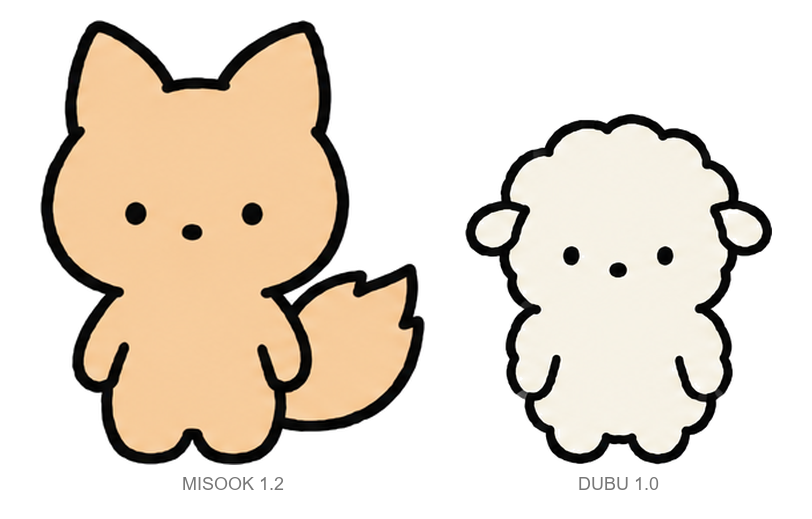
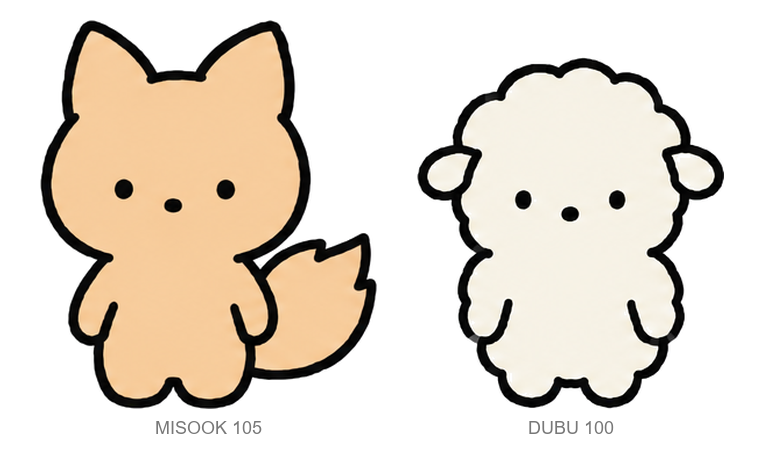
캐스트 크기 확정: 주인공 100 기준 아빠 110 · 엄마 105 · 남친 105 · 동생·친구 100

diff --git a/assets/samples/cast-sheets.html b/assets/samples/cast-sheets.html
@@ -24,7 +24,7 @@
 
   <h2>크기 라인업 (시트 FRONT 도를 잘라 합성, 생성 아님)</h2>
   <img src="../cast/lineup-all.png" alt="7인 크기 라인업">
-  <p class="cap">역할 기준 크기: 엄마·아빠 1.2 / 남친 1.1 / 주인공·친구 1.0 / 동생 0.8. 실제 동물 크기와 무관하며, 귀·뿔·털에 영향받지 않도록 <b>눈높이→발끝 거리</b>를 기준으로 맞춘다. <code>python scripts/lineup.py all --out …</code></p>
+  <p class="cap">역할 기준 크기 (주인공 100): 아빠 110 / 엄마 105 / 남친 105 / 동생·친구 100. 실제 동물 크기와 무관하며, 귀·뿔·털에 영향받지 않도록 <b>눈높이→발끝 거리</b>를 기준으로 맞춘다. <code>python scripts/lineup.py all --out …</code></p>
   <h2>동시 출연 참조 예시 — 두부 + 미숙</h2>
   <img src="../cast/lineup-example-dubu-misook.png" alt="두부 미숙 라인업" style="max-width:420px">
   <p class="cap">컷에 나오는 캐릭터만 골라 만든다: <code>python scripts/lineup.py dubu misook --out episodes/epNN/ref/lineup.png</code> → 컷 생성 시 <code>--ref</code>로 시트들과 함께 입력.</p>

diff --git a/assets/cast.html b/assets/cast.html
@@ -37,7 +37,7 @@
   <h1>확정 캐스트 7인</h1>
   <p class="sub">동물 20종 시트에서 고른 7종. 작품 안에는 MBTI를 드러내지 않고, 성격은 행동으로만 보여준다. 아래 컬러는 프롬프트 지정값이 아니라 생성 결과에서 실측한 값.</p>
 
-  <h2>라인업 — 현재 컬러 (엄마·아빠 1.2 / 남친 1.1 / 동생 0.8)</h2>
+  <h2>라인업 — 현재 컬러 (구 비율 — 확정은 cast-sheets.html)</h2>
   <img class="line" src="cast/lineup-current.png" alt="현재 컬러 라인업">
   <p class="cap">엄마 · 아빠 · 주인공 · 남동생 · 친구1 · 친구2 · 남친</p>
   <h2>라인업 — 제안 컬러 (오리 채도↑, 고슴도치 명도↓·단색화)</h2>

diff --git a/scripts/lineup.py b/scripts/lineup.py
@@ -10,13 +10,13 @@ import numpy as np
 from PIL import Image, ImageDraw, ImageFont
 
 CAST = {  # 이름: (시트, 상대 크기, 캡션)
-    "dubu":   ("assets/samples/dubu-sheet-high.png",   1.0, "DUBU 1.0"),
-    "misook": ("assets/samples/misook-sheet-high.png", 1.2, "MISOOK 1.2"),
-    "deoksu": ("assets/samples/deoksu-sheet-high.png", 1.2, "DEOKSU 1.2"),
-    "kong":   ("assets/samples/kong-sheet-high.png",   0.8, "KONG 0.8"),
-    "tangja": ("assets/samples/tangja-sheet-high.png", 1.0, "TANGJA 1.0"),
-    "sora":   ("assets/samples/sora-sheet-high.png",   1.0, "SORA 1.0"),
-    "bamtol": ("assets/samples/bamtol-sheet-high.png", 1.1, "BAMTOL 1.1"),
+    "dubu":   ("assets/samples/dubu-sheet-high.png",   1.0, "DUBU 100"),
+    "misook": ("assets/samples/misook-sheet-high.png", 1.05, "MISOOK 105"),
+    "deoksu": ("assets/samples/deoksu-sheet-high.png", 1.10, "DEOKSU 110"),
+    "kong":   ("assets/samples/kong-sheet-high.png",   1.00, "KONG 100"),
+    "tangja": ("assets/samples/tangja-sheet-high.png", 1.0, "TANGJA 100"),
+    "sora":   ("assets/samples/sora-sheet-high.png",   1.0, "SORA 100"),
+    "bamtol": ("assets/samples/bamtol-sheet-high.png", 1.05, "BAMTOL 105"),
 }
 ORDER = ["misook", "deoksu", "dubu", "kong", "tangja", "sora", "bamtol"]
 BASE_H = 210  # 크기 1.0 캐릭터의 눈높이→발끝 픽셀 거리 (귀·뿔·털 제외, 역할 기준 크기)

diff --git a/assets/characters.md b/assets/characters.md
@@ -21,13 +21,13 @@ MBTI는 설계용이며 **작품 안(표지·컷·캡션·해시태그 어디에
 
 | 역할 | 이름 | 동물 | MBTI(비공개) | 크기 | 바디 컬러 | 성격·역할 | 대표 소재 |
 |---|---|---|---|---|---|---|---|
-| 주인공 | **두부** | 양 | INFP | 1.0 | `#F6F2E6` | 눈치, 거절 못함, 걱정, 잘 욺. 마음을 읽는 초능력 → 남의 기분을 먼저 알아채고 곁에 있어 줌 | EP.01 |
-| 엄마 | **미숙** | 여우 | ESTJ | 1.2 | `#F6CA9E` | 잔소리 = 걱정. 타박하는 듯하다가 제일 먼저 알아주는 사람 | "엄마도 옛날엔 초능력자였다" |
-| 아빠 | **덕수** | 사슴 (2갈래 뿔 고정) | ISTJ | 1.2 | `#EACEAA` | 무뚝뚝, 말 대신 행동. 과일 깎아 두기, 말없이 데려다주기 | "아빠의 초능력은 티 안 내기" |
-| 남동생 | **콩** | 쥐 | ESTP | 0.8 | `#DED6DA` | 눈치 0, 직진, 밉지 않은 무신경. 대비 장치 + 개그 | 10번 고민한 말을 1초 만에 해버림 |
-| 친구 1 | **탱자** | 오리 (부리·발 `#F0A83A`) | ENFP | 1.0 | `#F5E08C` | 외향, 오지랖, 시끄럽고 밝음. 주인공을 밖으로 끌어냄 | "오지랖은 온 동네를 지키는 초능력" |
-| 친구 2 | **소라** | 펭귄 (부리·발 `#E8B24A`) | ISFP | 1.0 | `#C2C6CA` | 더 조용하고 소심. 초능력 **발동 대상**이자 주인공을 알아봐 주는 유일한 사람 | 서로의 초능력을 아는 둘 |
-| 남친 | **밤톨** | 고슴도치 (단색, 가시는 외곽선 톱니만) | ENTJ | 1.1 | `#C9A582` | 겉은 가시, 속은 부드러움. 계획 세워 주고 결정 대신 해 주는 T. 안으면 찔림 | "너 T야?" 커플 편, 고슴도치 딜레마 |
+| 주인공 | **두부** | 양 | INFP | 100 | `#F6F2E6` | 눈치, 거절 못함, 걱정, 잘 욺. 마음을 읽는 초능력 → 남의 기분을 먼저 알아채고 곁에 있어 줌 | EP.01 |
+| 엄마 | **미숙** | 여우 | ESTJ | 105 | `#F6CA9E` | 잔소리 = 걱정. 타박하는 듯하다가 제일 먼저 알아주는 사람 | "엄마도 옛날엔 초능력자였다" |
+| 아빠 | **덕수** | 사슴 (2갈래 뿔 고정) | ISTJ | 110 | `#EACEAA` | 무뚝뚝, 말 대신 행동. 과일 깎아 두기, 말없이 데려다주기 | "아빠의 초능력은 티 안 내기" |
+| 남동생 | **콩** | 쥐 | ESTP | 100 | `#DED6DA` | 눈치 0, 직진, 밉지 않은 무신경. 대비 장치 + 개그 | 10번 고민한 말을 1초 만에 해버림 |
+| 친구 1 | **탱자** | 오리 (부리·발 `#F0A83A`) | ENFP | 100 | `#F5E08C` | 외향, 오지랖, 시끄럽고 밝음. 주인공을 밖으로 끌어냄 | "오지랖은 온 동네를 지키는 초능력" |
+| 친구 2 | **소라** | 펭귄 (부리·발 `#E8B24A`) | ISFP | 100 | `#C2C6CA` | 더 조용하고 소심. 초능력 **발동 대상**이자 주인공을 알아봐 주는 유일한 사람 | 서로의 초능력을 아는 둘 |
+| 남친 | **밤톨** | 고슴도치 (단색, 가시는 외곽선 톱니만) | ENTJ | 105 | `#C9A582` | 겉은 가시, 속은 부드러움. 계획 세워 주고 결정 대신 해 주는 T. 안으면 찔림 | "너 T야?" 커플 편, 고슴도치 딜레마 |
 
 컬러는 생성 결과 실측값. 오리(채도↑)·고슴도치(명도↓)만 시트 값에서 조정했고 근거는 cast.html.
 
@@ -35,7 +35,7 @@ MBTI는 설계용이며 **작품 안(표지·컷·캡션·해시태그 어디에
 
 - 한 편의 초능력은 주인공 것. 조연은 단점이 드러나는 상황과 발동 대상을 공급한다.
 - 콩·탱자·밤톨은 대비(눈치 없음·외향·T), 소라는 동질(더 소심), 엄마·아빠는 세대 반전 소재.
-- 크기는 실제 동물이 아니라 역할 기준(부모 1.2 / 남친 1.1 / 또래 1.0 / 동생 0.8). 비교 기준은 귀·뿔·털을 뺀 **눈높이→발끝 거리**. 가족 식별도 이 크기로. "같은 색 계열" 규칙 없음.
+- 크기는 실제 동물이 아니라 역할 기준(주인공 100: 아빠 110 / 엄마 105 / 남친 105 / 동생·친구 100). 비교 기준은 귀·뿔·털을 뺀 **눈높이→발끝 거리**. 가족 식별도 이 크기로. "같은 색 계열" 규칙 없음.
 - CTA는 캐릭터 이름을 정체성 태그로: "당신 곁의 두부를 태그해 주세요" → 댓글에서 "나 완전 두부 / 넌 탱자지" 식 자기 분류.
 - 이름은 두 글자 이내 음식·사물 계열 (탱자·밤톨 예외 허용).
 
